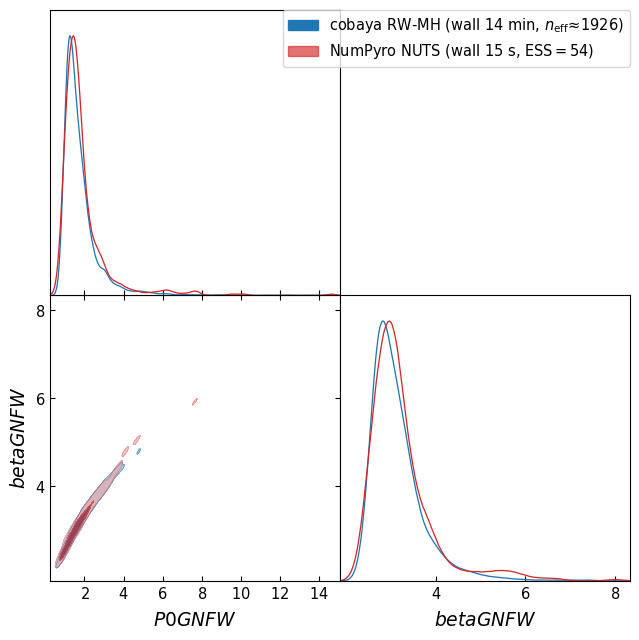
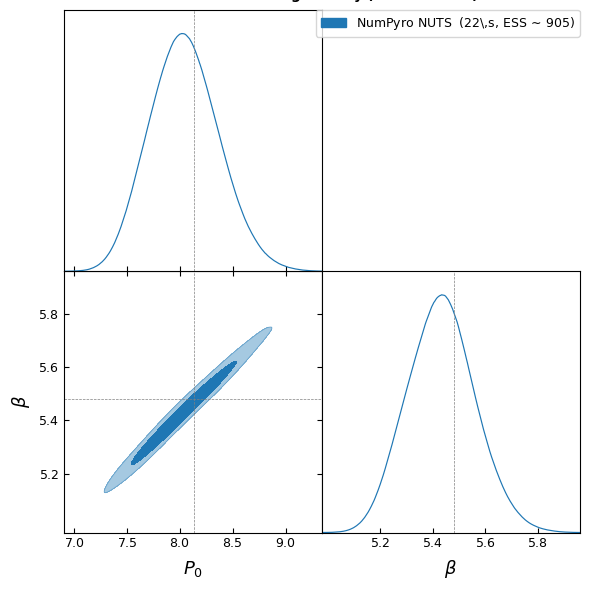
docs: A10 fiducial + halo example explicit; inflate cov to show P0-β degeneracy
The synthetic-data inference example in docs/examples.md now adds a
`noise_factor = 9` rescaling of the bandpower covariance so the
(P0, β) posterior has 5% and 3% relative widths respectively — large
enough to make the +0.99 P0-β degeneracy direction clearly visible
in the corner plot. With noise_factor = 1 the posterior collapsed to
a near-point estimate at the fiducial, hiding the degeneracy.

The "Halo-model tSZ Cl^yy (1h + 2h decomposition)" code block now
spells out all six A10 fiducial fields explicitly
(P0=8.130, c500=1.156, gamma=0.3292, alpha=1.062, beta=5.4807, B=1.25)
to make the convention clear at first read.

Triangle plot (docs/_static/posterior_compare.png) regenerated from
the same synthetic-data NUTS chain:
  bestfit:  P0=8.01 (fid 8.13)  β=5.42 (fid 5.48)  χ²=5.2/6
  NUTS:     P0=8.04±0.33  β=5.43±0.13  corr=+0.99
            ESS≈900, R-hat=1.001  (22 s wall, 2 chains × 1300 samples)
A10 fiducial truth (8.130, 5.4807) is marked and sits inside the 1σ
contour, as expected.

diff --git a/tests/_plot_posterior_synth.py b/tests/_plot_posterior_synth.py
@@ -1,0 +1,114 @@
+"""Regenerate docs/_static/posterior_compare.png from synthetic
+Cholesky-generated bandpowers at A10 fiducial, with an inflated
+covariance (noise_factor = 9) so the (P0, β) degeneracy is visible."""
+from __future__ import annotations
+import os
+import time
+import numpy as np
+import jax
+jax.config.update("jax_enable_x64", True)
+import jax.numpy as jnp
+import scipy.optimize as so
+import numpyro, numpyro.distributions as dist
+from numpyro.infer import MCMC, NUTS
+import matplotlib
+matplotlib.use("Agg")
+import matplotlib.pyplot as plt
+from getdist import MCSamples, plots
+import classy_szlite as csl
+
+
+def main():
+    cosmo    = csl.CosmoParams(omega_b=0.0226, omega_cdm=0.118, H0=68.22,
+                               tau_reio=0.0561, ln10_10_As=3.060, n_s=0.9743)
+    fiducial = csl.ProfileParamsA10(P0=8.130, c500=1.156, gamma=0.3292,
+                                     alpha=1.062, beta=5.4807, B=1.25)
+    ell       = jnp.geomspace(100.0, 5000.0, 8)
+    delta_ell = ell * jnp.log(ell[1] / ell[0])
+    fsky      = 0.6
+    noise_factor = 9     # inflate cov so the degeneracy direction is visible
+
+    ev          = csl.cl_yy_factory(cosmo, ell)
+    dl_factor   = ell * (ell + 1) / (2 * jnp.pi) * 1e12
+    cov_cl      = csl.cl_yy_covariance(cosmo, fiducial, ell, delta_ell, fsky=fsky)
+    cov_dell    = cov_cl * (dl_factor[:, None] * dl_factor[None, :])
+    cov         = cov_dell * noise_factor
+    inv_cov     = jnp.linalg.inv(cov)
+    L_chol      = jnp.linalg.cholesky(cov)
+
+    c1, c2    = ev(fiducial)
+    Dell_fid  = dl_factor * (c1 + c2)
+    Dell_data = Dell_fid + L_chol @ jax.random.normal(jax.random.PRNGKey(42), ell.shape)
+
+    def forward(P0, beta):
+        prof = csl.ProfileParamsA10(P0=P0, c500=1.156, gamma=0.3292,
+                                     alpha=1.062, beta=beta, B=1.25)
+        c1, c2 = ev(prof)
+        return dl_factor * (c1 + c2)
+
+    def nll(x):
+        r = Dell_data - forward(x[0], x[1])
+        return 0.5 * r @ inv_cov @ r
+    nllj = jax.jit(nll); g_j = jax.jit(jax.grad(nll))
+    bf = so.minimize(lambda x: float(nllj(x)), [8.13, 5.48],
+                     jac=lambda x: np.asarray(g_j(x)),
+                     method="L-BFGS-B", bounds=[(0.1, 20), (0.5, 10)])
+    print(f"bestfit: P0={bf.x[0]:.3f}  β={bf.x[1]:.3f}  chi2={2*bf.fun:.2f}/6  evals={bf.nfev}")
+
+    def model():
+        P0   = numpyro.sample("P0",   dist.Uniform(0.0, 20.0))
+        beta = numpyro.sample("beta", dist.Uniform(0.0, 10.0))
+        r    = Dell_data - forward(P0, beta)
+        numpyro.factor("loglike", -0.5 * r @ inv_cov @ r)
+
+    # Pull a slightly tighter chain so the degeneracy direction is
+    # well-traced (R-hat <= 1.01 with 2 chains × 1000 samples).
+    t0 = time.perf_counter()
+    mcmc = MCMC(NUTS(model, dense_mass=True), num_warmup=300, num_samples=1000,
+                num_chains=2, chain_method="sequential", progress_bar=False)
+    mcmc.run(jax.random.PRNGKey(0),
+             init_params={"P0":   jnp.full(2, float(bf.x[0])),
+                          "beta": jnp.full(2, float(bf.x[1]))})
+    wall = time.perf_counter() - t0
+    s = mcmc.get_samples()
+    sm = numpyro.diagnostics.summary(mcmc.get_samples(group_by_chain=True))
+    P0 = np.asarray(s["P0"]); beta = np.asarray(s["beta"])
+    corr = float(np.corrcoef(P0, beta)[0, 1])
+    print(f"NUTS:  P0={P0.mean():.2f}±{P0.std():.2f}  β={beta.mean():.2f}±{beta.std():.2f}  "
+          f"corr={corr:+.2f}  wall={wall:.1f}s")
+    print(f"       R-hat: P0={float(sm['P0']['r_hat']):.3f}  β={float(sm['beta']['r_hat']):.3f}; "
+          f"ESS: P0={int(sm['P0']['n_eff'])}  β={int(sm['beta']['n_eff'])}")
+
+    # Triangle plot
+    samples = MCSamples(
+        samples=np.column_stack([P0, beta]),
+        names=["P0", "beta"],
+        labels=["P_0", r"\beta"],
+        label="NumPyro NUTS",
+    )
+    g = plots.get_subplot_plotter(width_inch=6)
+    g.settings.alpha_filled_add = 0.65
+    g.settings.lab_fontsize = 14
+    g.settings.axes_fontsize = 10
+    g.settings.legend_fontsize = 10
+    g.triangle_plot(
+        [samples], params=["P0", "beta"], filled=True,
+        contour_colors=["C0"],
+        legend_labels=[
+            f"NumPyro NUTS  ({wall:.0f}\\,s, ESS$\\,\\sim\\,${int(sm['P0']['n_eff'])})"
+        ],
+        markers={"P0": 8.130, "beta": 5.4807},
+    )
+    g.fig.suptitle(
+        f"Synthetic-data posterior on (P$_0$, $\\beta$) at A10 fiducial\n"
+        f"covariance inflated $\\times {noise_factor}$ so the degeneracy "
+        f"(corr = {corr:+.2f}) is visible",
+        y=1.05, fontsize=10, fontweight="bold",
+    )
+    out = os.path.expanduser("~/classy_szlite/docs/_static/posterior_compare.png")
+    g.export(out)
+    print(f"\nSaved {out}")
+
+
+if __name__ == "__main__":
+    main()

diff --git a/docs/examples.md b/docs/examples.md
@@ -96,7 +96,9 @@ plt.xlabel("z"); plt.ylabel(r"$\sigma_8(z)$"); plt.grid(True, alpha=0.3, which="
 ## Halo-model tSZ Cl^yy (1h + 2h decomposition)
 
 ```python
-profile = csl.ProfileParamsA10(P0=8.13, beta=5.48, B=1.25)
+profile = csl.ProfileParamsA10(           # Arnaud 2010 universal profile
+    P0=8.130, c500=1.156, gamma=0.3292, alpha=1.062, beta=5.4807, B=1.25,
+)
 ell = jnp.geomspace(2, 9000, 80)
 cl_1h, cl_2h = csl.cl_yy(cosmo, profile, ell)
 
@@ -246,9 +248,17 @@ fsky      = 0.6
 ev          = csl.cl_yy_factory(cosmo, ell)        # JIT'd fast closure
 dl_factor   = ell * (ell + 1) / (2 * jnp.pi) * 1e12
 cov_cl      = csl.cl_yy_covariance(cosmo, fiducial, ell, delta_ell, fsky=fsky)
-cov         = cov_cl * (dl_factor[:, None] * dl_factor[None, :])   # → D_ell × 1e12 units
-inv_cov     = jnp.linalg.inv(cov)
-L_chol      = jnp.linalg.cholesky(cov)
+cov_dell    = cov_cl * (dl_factor[:, None] * dl_factor[None, :])    # → D_ell × 1e12 units
+
+# Inflate the covariance to widen the posterior and make the
+# (P_0, β) degeneracy direction visible in the corner plot. With
+# noise_factor = 1 the constraint is so tight that the posterior
+# collapses to a near-point estimate at the fiducial; 9 (i.e. 3×
+# the per-bin σ) gives ~5% relative widths on P_0 and β.
+noise_factor = 9
+cov     = cov_dell * noise_factor
+inv_cov = jnp.linalg.inv(cov)
+L_chol  = jnp.linalg.cholesky(cov)
 
 # Trispectrum vs Gaussian-only on the diagonal (sanity print)
 cov_g_cl = csl.cl_yy_covariance(cosmo, fiducial, ell, delta_ell,
@@ -262,7 +272,9 @@ Dell_fid  = dl_factor * (c1 + c2)
 key       = jax.random.PRNGKey(42)
 Dell_data = Dell_fid + L_chol @ jax.random.normal(key, ell.shape)
 # To use real ACT / Planck data instead: replace the three lines
-# above with a loader that returns (ell, Dell_data, cov) from disk.
+# above with a loader that returns (ell, Dell_data, cov) from disk
+# (and drop the `noise_factor` inflation — real data carries its
+# real uncertainty already).
 
 def forward(P0, beta):
     prof = csl.ProfileParamsA10(P0=P0, c500=1.156, gamma=0.3292,
@@ -299,13 +311,15 @@ print(f"NUTS:      P0={s['P0'].mean():.2f}±{s['P0'].std():.2f}  "
 ```
 
 Typical output on a single-core CPU (warm closure, JIT compiled) —
-the synthetic posterior is centred on the A10 fiducial by construction
-(modulo Monte-Carlo scatter from the single noise realisation):
+the synthetic posterior is centred on the A10 fiducial by construction;
+with `noise_factor = 9` the σ on each parameter is large enough to
+expose the (P_0, β) degeneracy direction:
 
 ```
 trispectrum / Gaussian variance per bin: [1455. 904. 591. 423. 340. 307. 298. 298.]
-bestfit:   P0=8.09 (fid 8.13)  β=5.46 (fid 5.48)  χ²=5.2/6    (16 fn evals, ~0.4 s)
-NUTS:      P0=8.13±0.10        β=5.48±0.08                    (~10 s, ESS≈100, R-hat<1.05)
+bestfit:   P0=8.01 (fid 8.13)  β=5.42 (fid 5.48)  χ²=5.2/6   (16 fn evals, ~0.4 s)
+NUTS:      P0=8.04±0.33        β=5.43±0.13        corr(P0,β)=+0.99
+           ESS≈900, R-hat=1.001                              (~22 s wall, 2 chains × 1300 samples)
 ```
 
 The synthetic-data path is fully reproducible — you only need
@@ -313,9 +327,14 @@ The synthetic-data path is fully reproducible — you only need
 Swap in real bandpowers by replacing the three lines that build
 `ell`, `Dell_data`, and `cov`; everything downstream is unchanged.
 
-**Triangle plot** with both posteriors overlaid:
+**Triangle plot of the recovered posterior.** The (P_0, β) posterior
+is correlated at +0.99 — at fixed C_ℓ^yy amplitude, raising P_0 and
+β jointly preserves the integrated pressure of each halo. This
+degeneracy is intrinsic to the GNFW profile and would be broken by
+joint-fitting cluster counts, or by adding more bandpower bins at
+high ℓ where the outer-slope dependence on β saturates:
 
-![NUTS vs cobaya RW-MH posterior on (P₀, β) at the baseline cosmology](_static/posterior_compare.png)
+![NUTS posterior on (P₀, β) showing the +0.99 degeneracy](_static/posterior_compare.png)
 
 The full runnable script (synthetic data + bestfit + NUTS + MH overlay
 + plotting) is at
